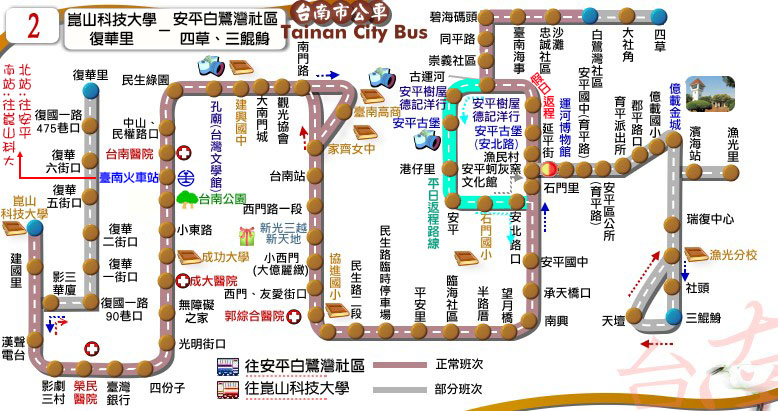
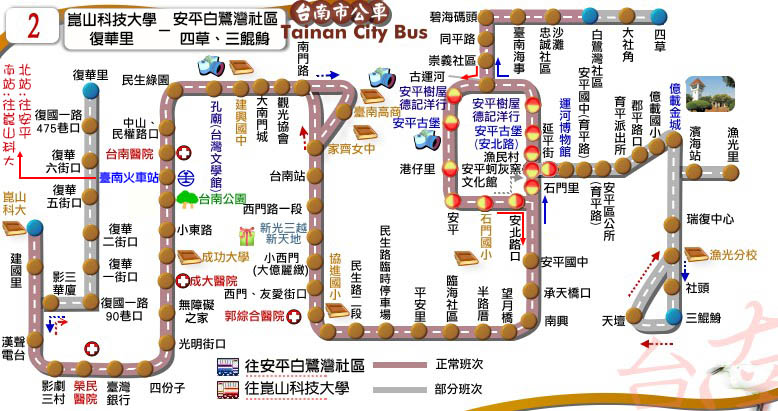
更新路線：2路 (假日返程改走安平路)

diff --git a/route/fare_and_time/city_bus_2.js b/route/fare_and_time/city_bus_2.js
@@ -13,7 +13,7 @@ city_bus_2_interval_stop = [
 "瑞復中心","漁光分校","社頭","三鯤鯓","天壇","延平街","安平","石門國小","安北路口","民生綠園"]
 ];
 
-city_bus_2_main_stop_name = ["復華里","崑山<br />科技大學","臺南<br />火車站","孔廟(台灣<br />文學館)","新光三越<br />新天地","安平<br />古堡","臺南<br />海事","白鷺灣<br />社區","四草","億載<br />金城","三鯤鯓"];
+city_bus_2_main_stop_name = ["復華里","崑山<br />科大","臺南<br />火車站","孔廟(台灣<br />文學館)","新光三越<br />新天地","安平<br />古堡","臺南<br />海事","白鷺灣<br />社區","四草","億載<br />金城","三鯤鯓"];
 city_bus_2_main_stop_time_consume = [0, 0, 20, 25, 32, 48, 53, 55, 62, 75, 80];
 city_bus_2_important_stop = [1, 2, 5]; // 崑山科大, 臺南火車站, 安平古堡
 stop_1 = 1; // 崑山科技大學

diff --git a/city_bus/city_bus_2.html b/city_bus/city_bus_2.html
@@ -7,8 +7,8 @@
 	route_name_en = 'No.2';
 	route_file_name = 'city_bus_2';
 	route_type = 'city_bus';
-	route_interval = ['崑山科技大學','安平白鷺灣社區'];
-	route_start_stop = '崑山科技大學/復華里';
+	route_interval = ['崑山科大','安平白鷺灣社區'];
+	route_start_stop = '崑山科大/復華里';
 	route_end_stop = '白鷺灣社區/四草/三鯤鯓';
 </script>
 <link href="../css/radio_style.css" rel="stylesheet" />
